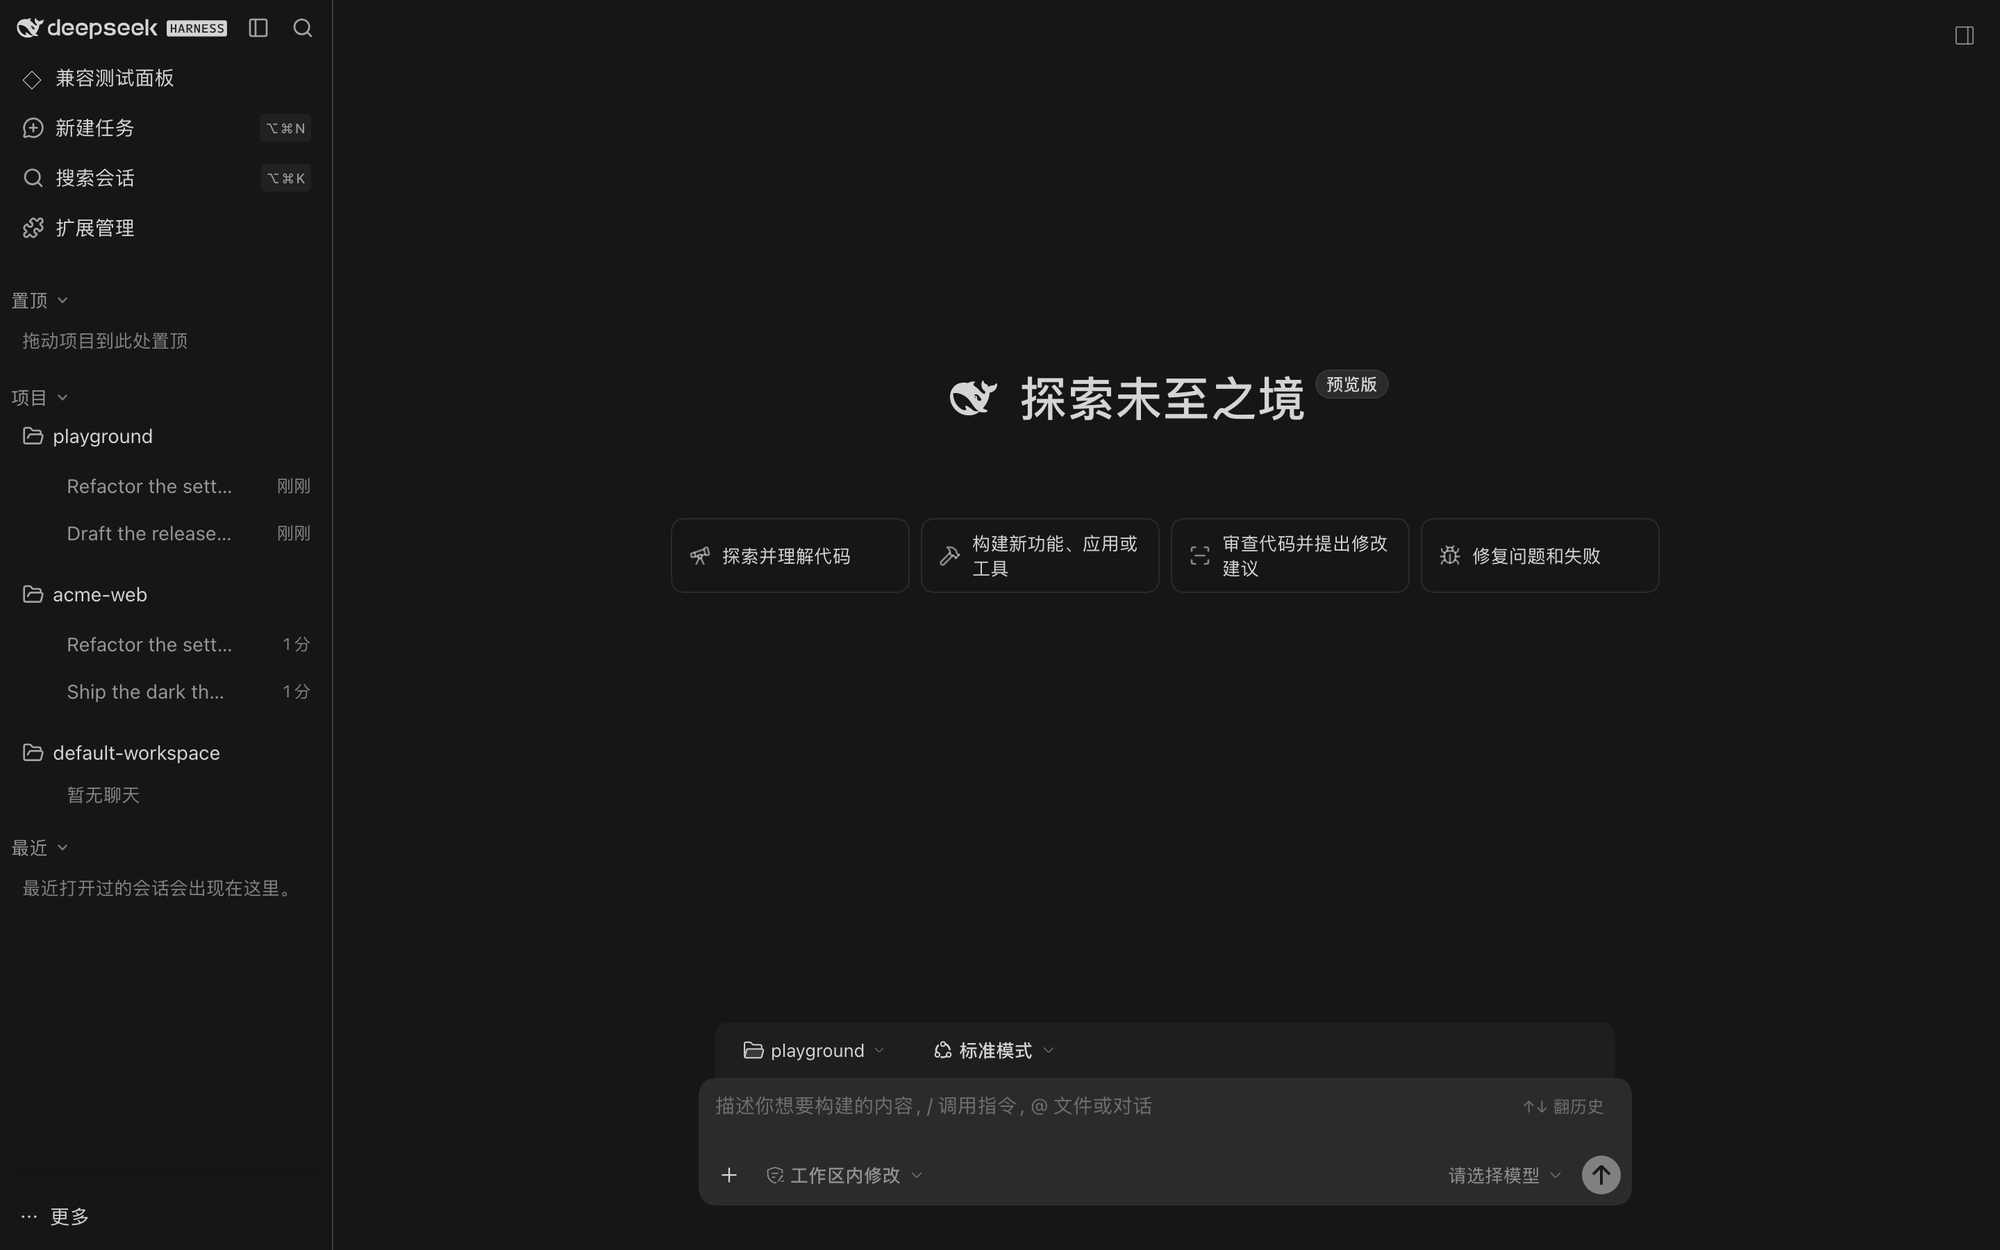
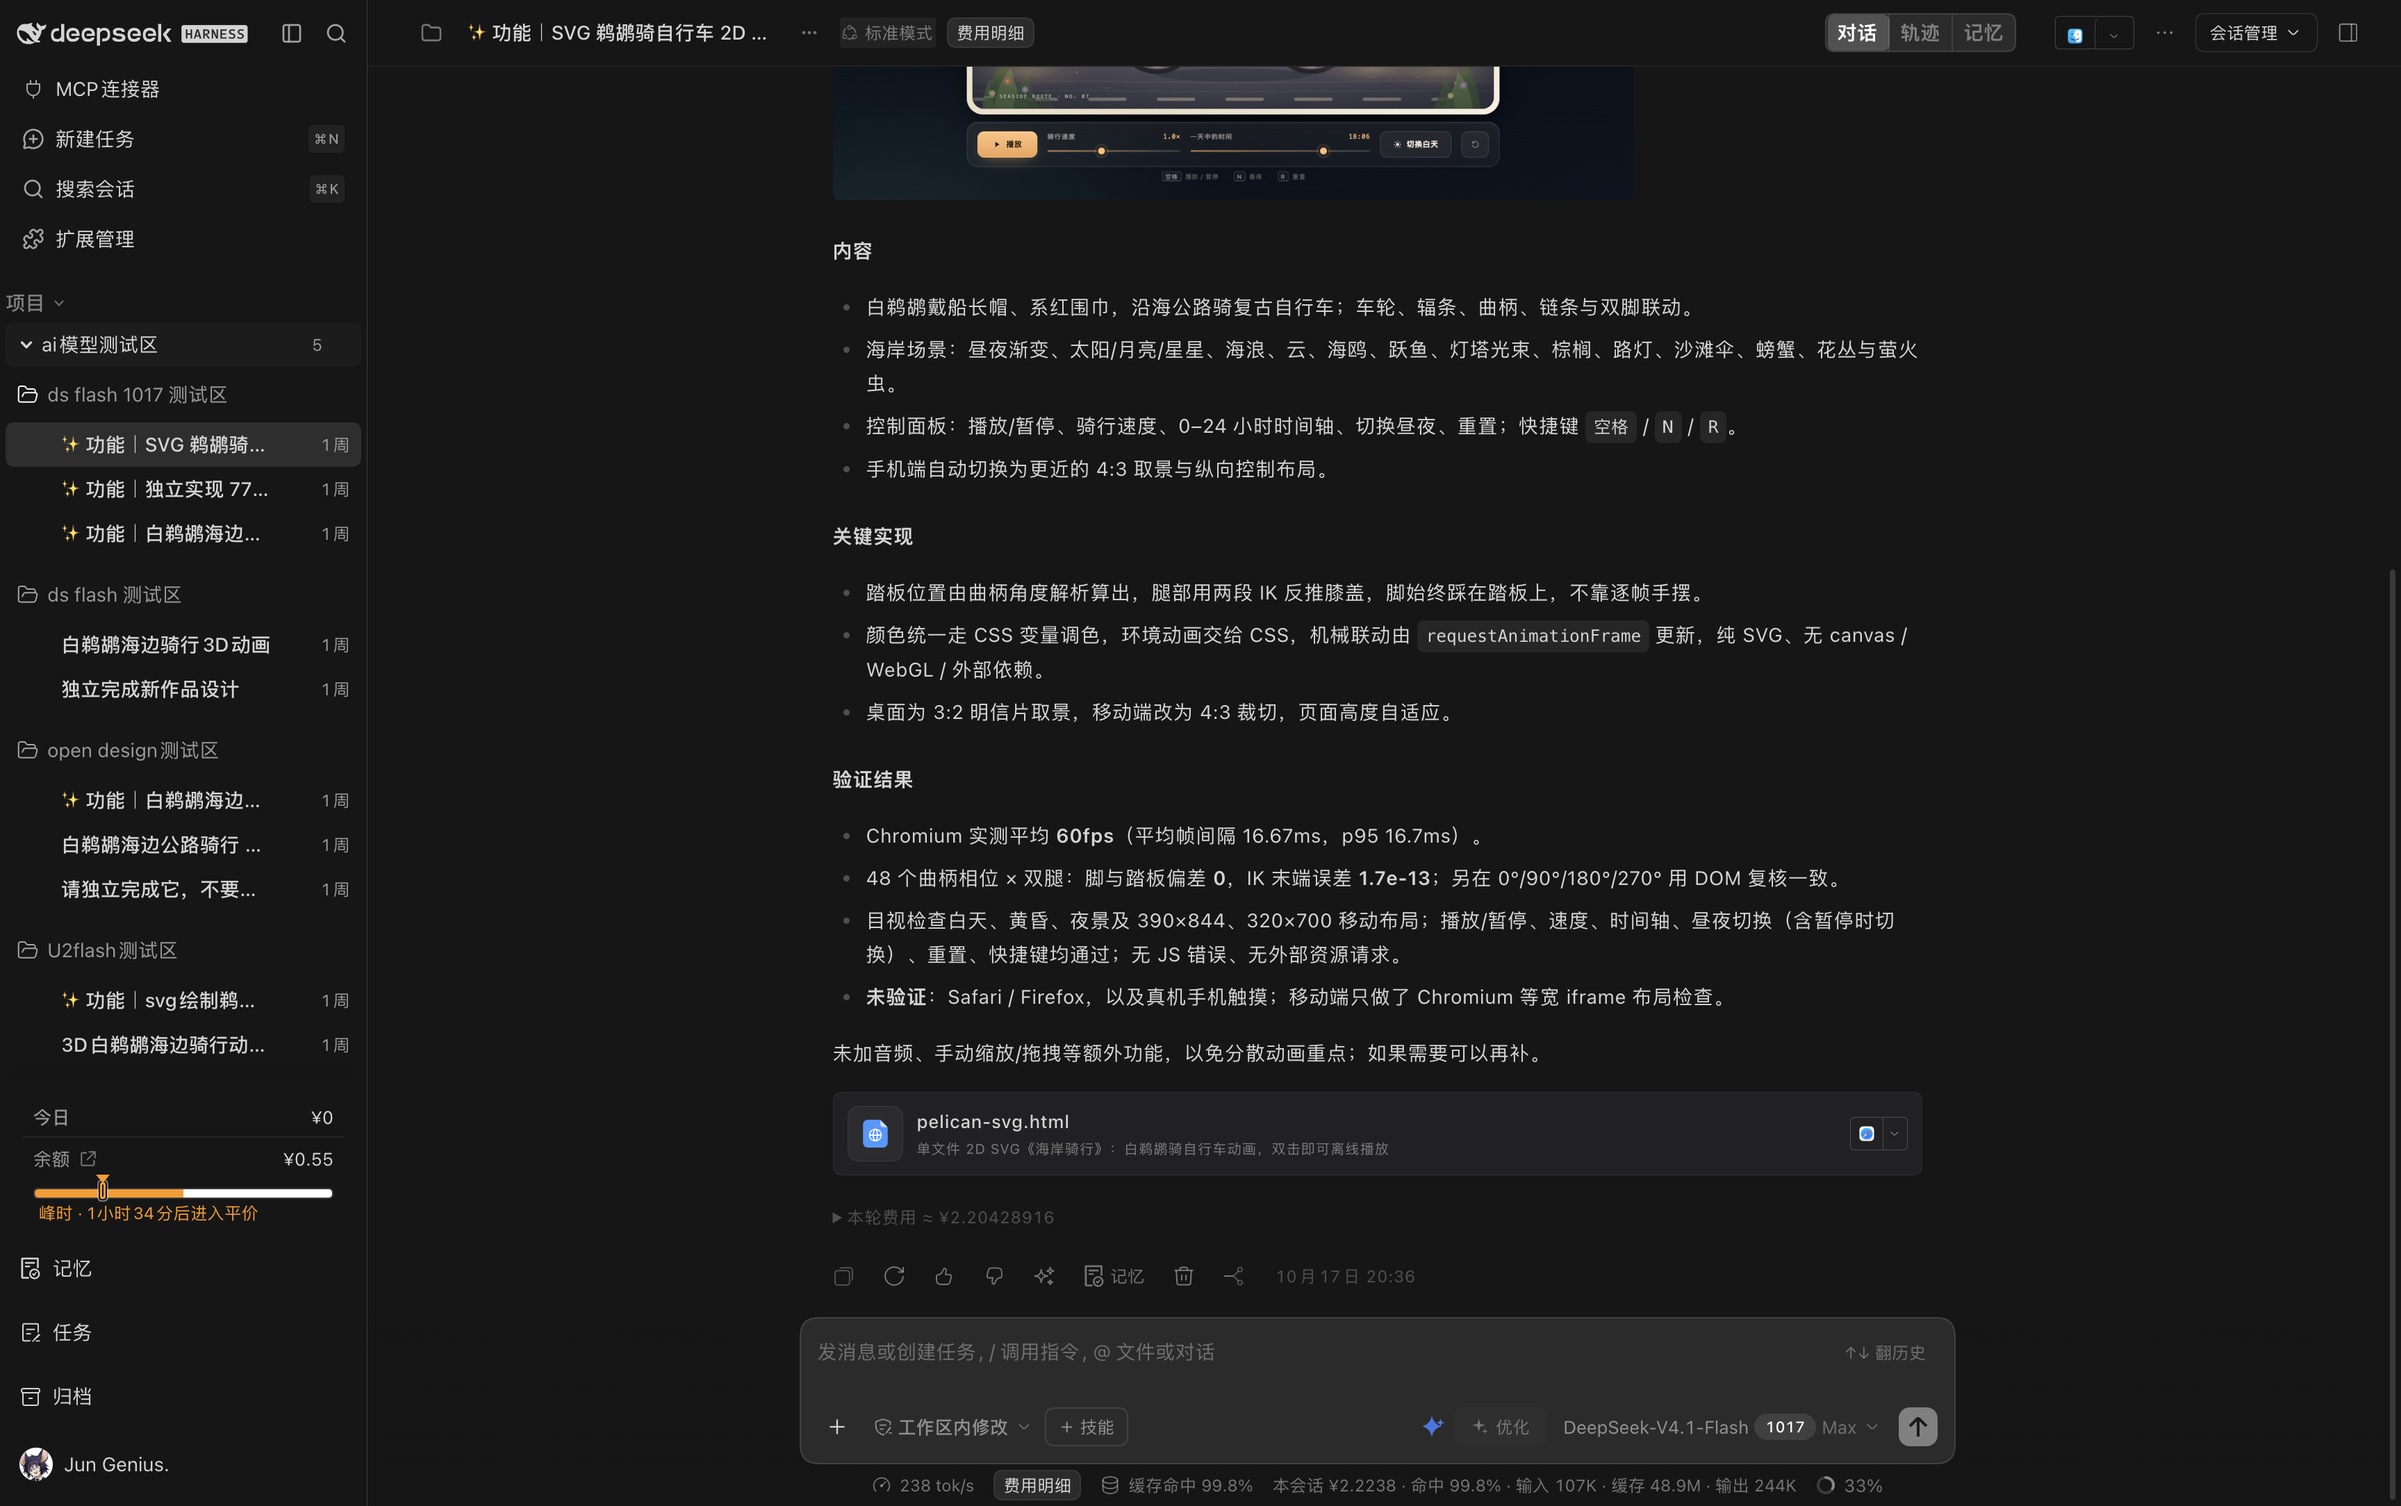
docs: README 截图按 2.0.0 重拍（新增收起态暗色窄轨图）
- conversation-dark.png / collapsed-dark.png：从活宿主（深色、306 轮会话）重新取景
- README 双语的截图说明从 1.15.0 → 2.0.0，描述收起态窄轨、置顶标题栏、平贴输入卡与表格/引用样式
- 中文 README 在设置页截图后补收起态窄轨图；英文 README 去重

diff --git a/README.md b/README.md
@@ -59,13 +59,17 @@ The two images at the top of this page are the light and dark sidebar + workspac
 > Project names, conversation titles and the balance figures in every screenshot are **demo data** — the
 > captures are sanitised before committing so no real workspace ever appears in this repository.
 >
-> **Re-captured for 1.15.0** (2026-10-18) against a live host (`0.2.1-rc.2`) in an isolated profile,
-> so the session indent, monochrome card icons and wider group spacing shown here are the real thing.
-> Demo data only — no real workspace appears in this repository.
+> **Re-captured for 2.0.0** (2026-10-29) against a live host (`0.2.1-rc.2`): the collapsed rail,
+> the pinned titlebar (host's duplicate buttons hidden), the flat composer card and the table/quote
+> styling shown here are the shipped 2.0 look.
 
 Settings page — selected states are neutral, matching the sidebar (no blue leftovers from the host defaults):
 
 ![Settings page, light theme](assets/screenshots/settings-light.png)
+
+Collapsed rail — icon-only, expand button on top, footer icons pinned to the bottom (dark):
+
+![Collapsed rail, dark theme](assets/screenshots/collapsed-dark.png)
 
 Header search across conversations and settings:
 

diff --git a/README.zh-CN.md b/README.zh-CN.md
@@ -58,13 +58,17 @@ DSH ZCode UI 把 DSH Web 的界面重新绘制成 ZCode（智谱 Zai）的视觉
 > 所有截图里的项目名、会话标题与余额数字都是**演示数据**——提交前会先做脱敏，
 > 因此本仓库里不会出现任何真实工作区的内容。
 >
-> **截图已按 1.15.0 重拍**（2026-10-18），在隔离 profile 里对真实宿主（`0.2.1-rc.2`）取景，
-> 因此这里的会话缩进、单色建议卡图标与加宽的组间留白都是真实效果。
+> **截图已按 2.0.0 重拍**（2026-10-29），对真实宿主（`0.2.1-rc.2`）取景：收起态窄轨、
+> 置顶标题栏（宿主重复按钮已隐藏）、平贴的输入卡与表格/引用样式，就是 2.0 的实际出厂观感。
 > 只有演示数据——本仓库不包含任何真实工作区内容。
 
 设置页 —— 选中态是中性灰，与侧栏一致（没有宿主默认的蓝色残留）：
 
 ![设置页 · 亮色](assets/screenshots/settings-light.png)
+
+收起态窄轨——纯图标 + 顶部展开钮，页脚图标钉在底部（深色）：
+
+![收起态窄轨 · 暗色](assets/screenshots/collapsed-dark.png)
 
 头部搜索，覆盖会话与设置：
 
